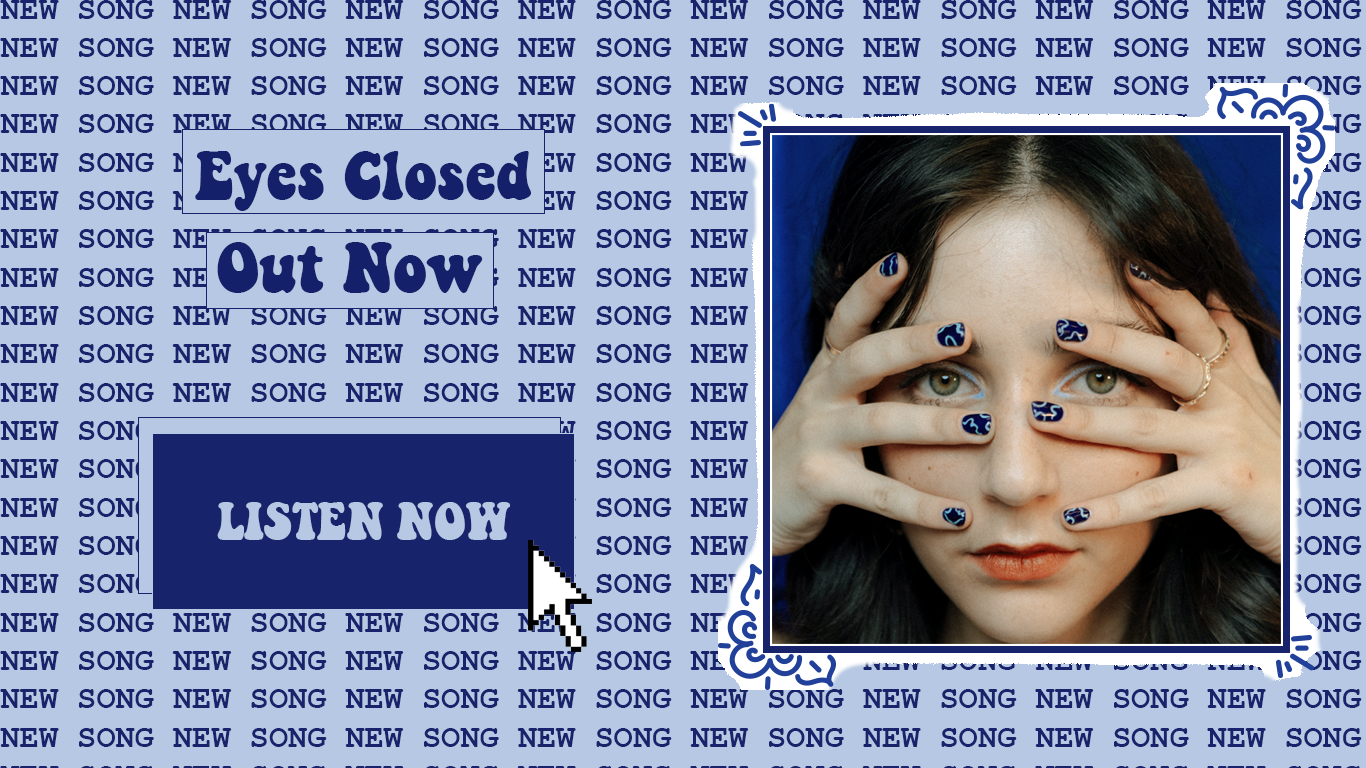
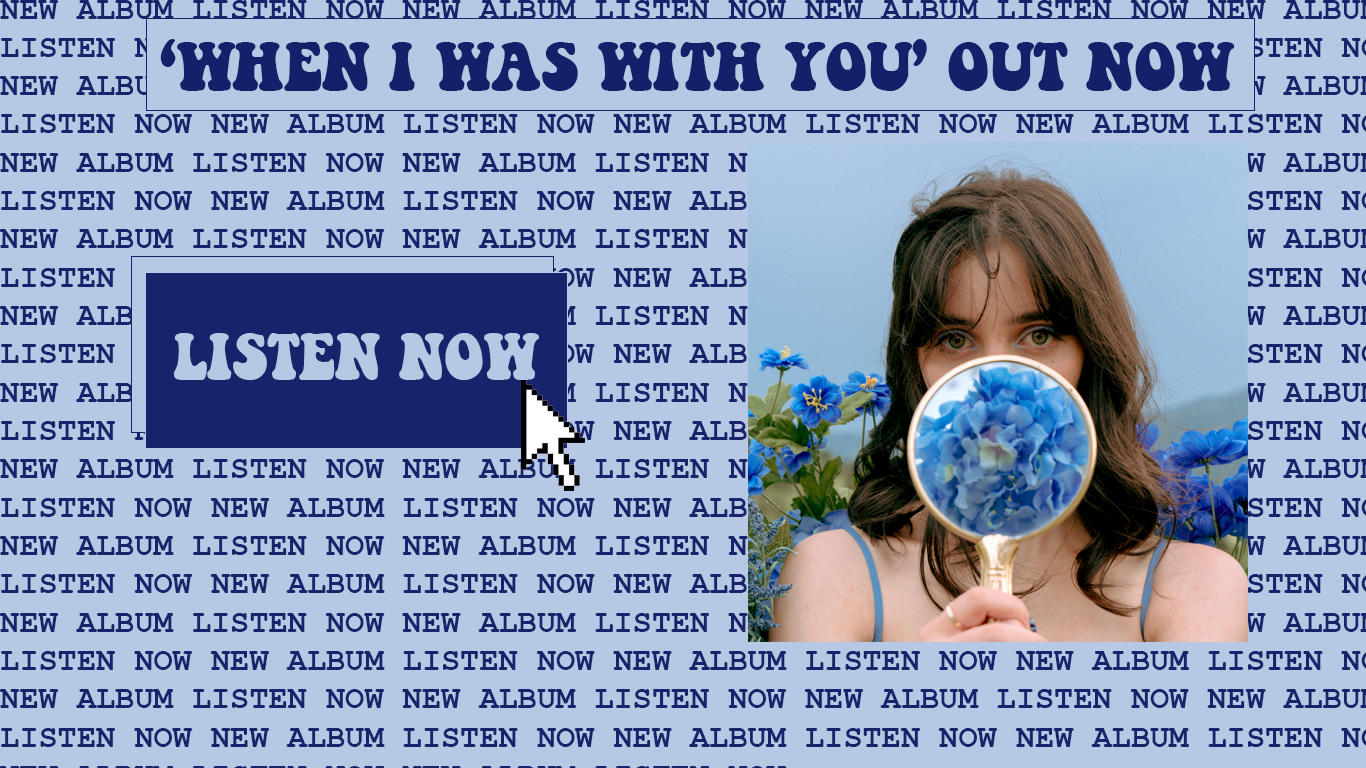
update

diff --git a/src/news/News.js b/src/news/News.js
@@ -15,7 +15,7 @@ import W from '../assets/letters/W-G.svg';
 import S from '../assets/letters/S-G.svg';
 
 
-const images = [{image: slide3, mobile: slide3m, link: 'https://shop.dafna.rocks/product/when-i-was-with-you-vinyl'},{image: slide1, mobile: slide1m, link: 'https://shop.dafna.rocks/product/8nights-t-shirt'}, {image: slide2, mobile: slide2m, link: 'https://dafna.fanlink.to/EyesClosed'}];
+const images = [{image: slide2, mobile: slide2m, link: 'https://dafna.fanlink.to/WHENIWASWITHYOU'}, {image: slide3, mobile: slide3m, link: 'https://shop.dafna.rocks/product/when-i-was-with-you-vinyl'},{image: slide1, mobile: slide1m, link: 'https://shop.dafna.rocks/product/8nights-t-shirt'}];
 
 const News = () => {
     return(
